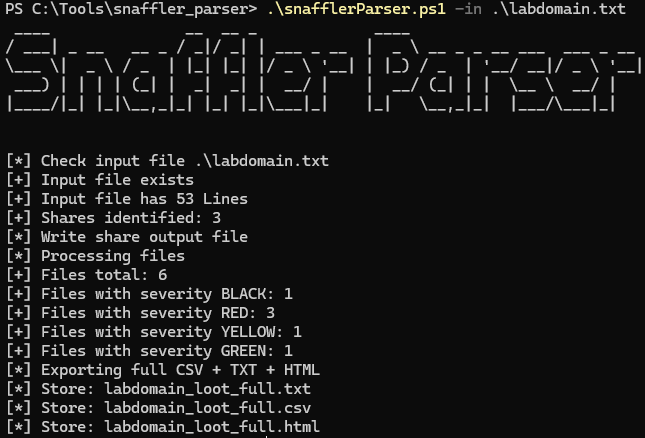
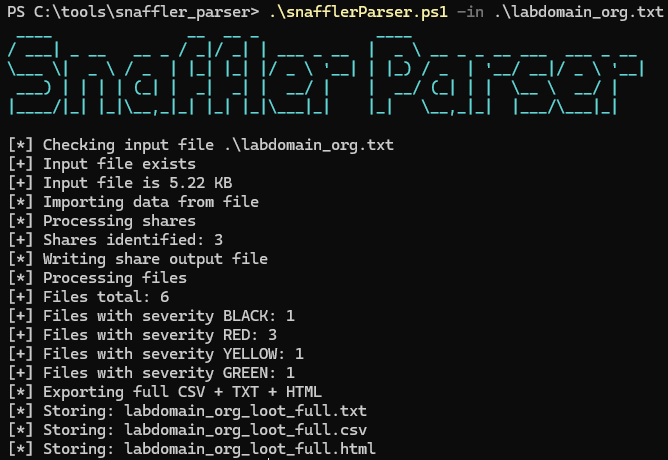
Perfomance improvements addressing issue #1 Some output adjustments

Changed region(s): [[0.0, 0.2968, 0.5891, 1.0], [0.0, 0.0, 1.0, 0.2671]]

diff --git a/README.md b/README.md
@@ -109,6 +109,12 @@ This allows easy access to the shares without authenticate for every share via t
 
 ## Changelog
 
+### 2025-01-25
+
+#### Improved
+- Slightly improved performance
+- Adjusted status messages
+
 ### 2025-01-21
 
 #### New
